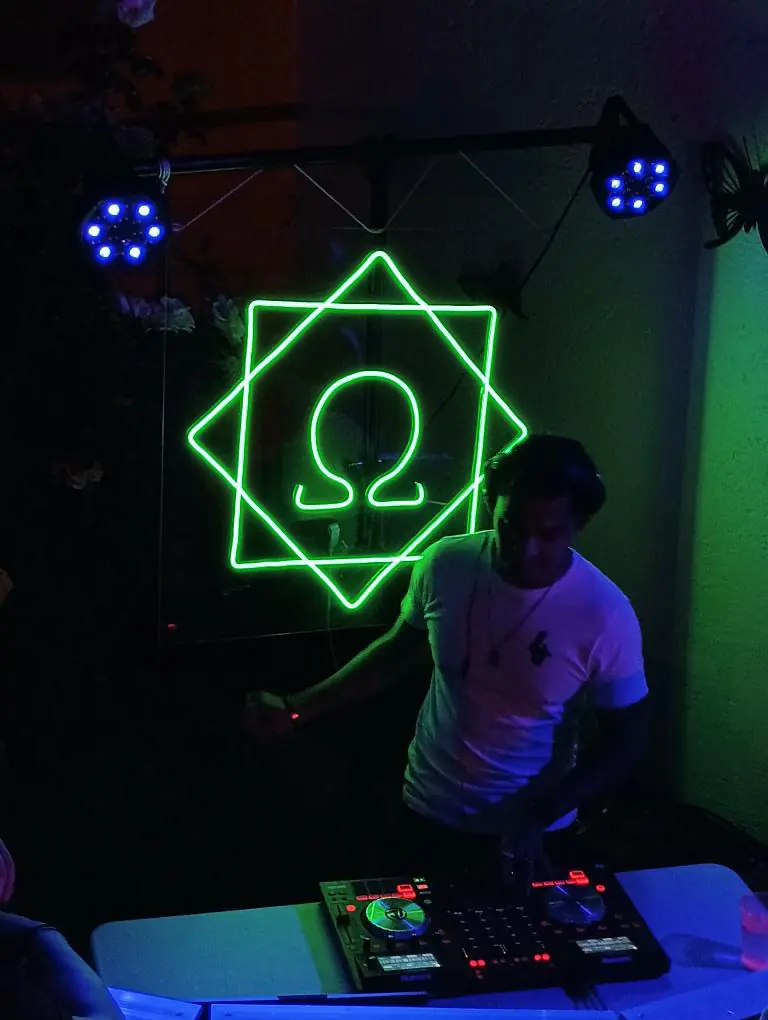
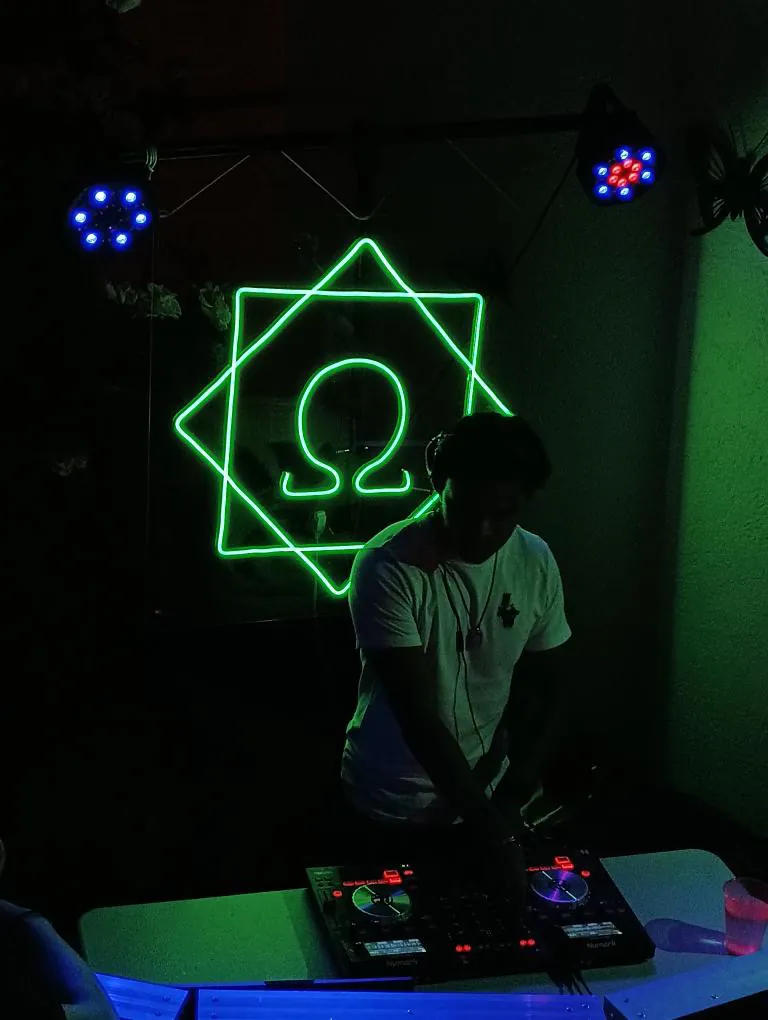
feat(galeria): reemplazar las 38 fotos por las 16 nuevas del carrusel
Claude-Session: https://claude.ai/code/session_01MD7vvLYPbAwLpoPTHU2Pwk

diff --git a/src/data/gallery.ts b/src/data/gallery.ts
@@ -7,42 +7,20 @@ export interface GalleryPhoto {
 
 // Fotos empaquetadas en el repo (public/images/gallery); no dependen de ningún servicio externo.
 export const GALLERY: GalleryPhoto[] = [
-  { src: "/images/gallery/gallery-01.webp", w: 1500, h: 1000, alt: "Greek con lentes frente al letrero de neón Ω" },
-  { src: "/images/gallery/gallery-02.webp", w: 768, h: 1020, alt: "Greek en cabina frente al letrero de neón Ω" },
-  { src: "/images/gallery/gallery-03.webp", w: 1200, h: 1500, alt: "Greek sonriendo con audífonos al aire libre" },
-  { src: "/images/gallery/gallery-04.webp", w: 1200, h: 1500, alt: "Retrato de Greek con audífonos ante el letrero de neón" },
-  { src: "/images/gallery/gallery-05.webp", w: 843, h: 562, alt: "Greek con invitados brindando en una fiesta nocturna" },
-  { src: "/images/gallery/gallery-06.webp", w: 1500, h: 1125, alt: "Greek tras la cabina con el letrero Ω iluminado" },
-  { src: "/images/gallery/gallery-07.webp", w: 1200, h: 1500, alt: "Greek sonriendo con lentes oscuros y audífonos" },
-  { src: "/images/gallery/gallery-08.webp", w: 1080, h: 1350, alt: "Greek con luz roja junto a un controlador" },
-  { src: "/images/gallery/gallery-09.webp", w: 1080, h: 1080, alt: "Greek con luz morada sobre el mixer" },
-  { src: "/images/gallery/gallery-10.webp", w: 1125, h: 1500, alt: "Greek mezclando en una mesa con luces de colores durante una fiesta" },
-  { src: "/images/gallery/gallery-11.webp", w: 1200, h: 1200, alt: "Greek en blanco y negro con las manos sobre el controlador" },
-  { src: "/images/gallery/gallery-12.webp", w: 843, h: 562, alt: "Greek con un brazo en alto en una terraza iluminada" },
-  { src: "/images/gallery/gallery-13.webp", w: 1500, h: 1200, alt: "Greek mezclando en un parque con equipo Pioneer" },
-  { src: "/images/gallery/gallery-14.webp", w: 1200, h: 1500, alt: "Cabina vista desde arriba con la pista al fondo" },
-  { src: "/images/gallery/gallery-15.webp", w: 1500, h: 1000, alt: "Greek con los brazos abiertos al atardecer junto al letrero Ω" },
-  { src: "/images/gallery/gallery-16.webp", w: 1500, h: 1000, alt: "Greek en una terraza junto al letrero de neón Ω" },
-  { src: "/images/gallery/gallery-17.webp", w: 1500, h: 1000, alt: "Greek en una terraza de noche con el letrero Ω" },
-  { src: "/images/gallery/gallery-18.webp", w: 1170, h: 1331, alt: "Cabina de Foro Escarabajo con luz morada" },
-  { src: "/images/gallery/gallery-19.webp", w: 713, h: 1500, alt: "Greek en cabina con una pantalla de colores al fondo" },
-  { src: "/images/gallery/gallery-20.webp", w: 1200, h: 1500, alt: "Greek a contraluz frente al letrero verde Ω" },
-  { src: "/images/gallery/gallery-21.webp", w: 1125, h: 1500, alt: "Greek en cabina junto a un letrero de neón rojo" },
-  { src: "/images/gallery/gallery-22.webp", w: 749, h: 1500, alt: "Persona con el brazo en alto en una pista con luces verdes" },
-  { src: "/images/gallery/gallery-23.webp", w: 1375, h: 753, alt: "Greek y un invitado sonriendo en la cabina" },
-  { src: "/images/gallery/gallery-24.webp", w: 1125, h: 1500, alt: "Greek de perfil junto a un letrero de neón azul" },
-  { src: "/images/gallery/gallery-25.webp", w: 1600, h: 1067, alt: "DJ en cabina bajo luz roja frente al letrero de Cincodoce" },
-  { src: "/images/gallery/gallery-26.webp", w: 1067, h: 1600, alt: "DJ mezclando de perfil con audífonos junto al neón de Cincodoce" },
-  { src: "/images/gallery/gallery-27.webp", w: 1200, h: 1600, alt: "Manos sobre un controlador con aros de luz azul en cabina" },
-  { src: "/images/gallery/gallery-28.webp", w: 1200, h: 1600, alt: "DJ con lentes y camisa blanca sonriendo en una terraza con luces cálidas" },
-  { src: "/images/gallery/gallery-29.webp", w: 1200, h: 1600, alt: "DJ con el brazo en alto frente a una pared de luces verdes" },
-  { src: "/images/gallery/gallery-30.webp", w: 1200, h: 1600, alt: "DJ en cabina de cristal de una terraza con luces cálidas" },
-  { src: "/images/gallery/gallery-31.webp", w: 1200, h: 1600, alt: "DJ con playera blanca mezclando en un club con luz morada" },
-  { src: "/images/gallery/gallery-32.webp", w: 1200, h: 1600, alt: "DJ de perfil sobre el mixer y los platos bajo luz azul" },
-  { src: "/images/gallery/gallery-33.webp", w: 1200, h: 1600, alt: "DJ de espaldas frente a una barra iluminada en magenta" },
-  { src: "/images/gallery/gallery-34.webp", w: 1200, h: 1600, alt: "DJ con lentes oscuros y camisa blanca mezclando en una terraza de día" },
-  { src: "/images/gallery/gallery-35.webp", w: 1600, h: 1200, alt: "Pista llena vista desde arriba con luna decorativa y luz rosa" },
-  { src: "/images/gallery/gallery-36.webp", w: 1200, h: 1600, alt: "DJ con playera verde en cabina de pared de roca" },
-  { src: "/images/gallery/gallery-37.webp", w: 1367, h: 750, alt: "Dos personas sonriendo en cabina con luz morada" },
-  { src: "/images/gallery/gallery-38.webp", w: 1600, h: 1200, alt: "DJ de espaldas frente a una pista con decoración neón" },
+  { src: "/images/gallery/gallery-01.webp", w: 1500, h: 1500, alt: "Vista desde arriba de la cabina con controlador Pioneer y gente bailando al fondo" },
+  { src: "/images/gallery/gallery-02.webp", w: 768, h: 1020, alt: "Greek en cabina frente al letrero de neón Ω verde, con parleds a los lados" },
+  { src: "/images/gallery/gallery-03.webp", w: 843, h: 562, alt: "Greek con un brazo en alto en una terraza con luces cálidas" },
+  { src: "/images/gallery/gallery-04.webp", w: 1500, h: 1000, alt: "Greek de espaldas en la cabina, con barra iluminada en verde y público al fondo" },
+  { src: "/images/gallery/gallery-05.webp", w: 1500, h: 1000, alt: "Greek sonriendo con lentes de luz verde junto al letrero Ω" },
+  { src: "/images/gallery/gallery-06.webp", w: 1500, h: 1000, alt: "Detalle del letrero Ω en verde con Greek desenfocado al fondo" },
+  { src: "/images/gallery/gallery-07.webp", w: 1500, h: 1000, alt: "Greek mezclando en una terraza de día con plantas y edificio al fondo" },
+  { src: "/images/gallery/gallery-08.webp", w: 844, h: 1500, alt: "Letrero Ω en azul con haces de luz roja y azul sobre la cabina" },
+  { src: "/images/gallery/gallery-09.webp", w: 1500, h: 1000, alt: "Greek sonriendo mientras mezcla en una terraza de día" },
+  { src: "/images/gallery/gallery-10.webp", w: 1072, h: 1500, alt: "Greek con lentes y camisa de futbol bajo una bola disco" },
+  { src: "/images/gallery/gallery-11.webp", w: 1125, h: 1500, alt: "Greek con audífonos al atardecer sobre un mirador" },
+  { src: "/images/gallery/gallery-12.webp", w: 844, h: 1500, alt: "Greek mezclando al anochecer en un mirador, con un vaso rojo sobre la mesa" },
+  { src: "/images/gallery/gallery-13.webp", w: 1125, h: 1500, alt: "Greek de espaldas con jersey 'Santi 06' frente a la pista, con luz morada" },
+  { src: "/images/gallery/gallery-14.webp", w: 1125, h: 1500, alt: "Greek en cabina frente al letrero Ω bajo luz verde" },
+  { src: "/images/gallery/gallery-15.webp", w: 1125, h: 1500, alt: "Greek con el brazo en alto bajo una bola disco con luz roja" },
+  { src: "/images/gallery/gallery-16.webp", w: 1125, h: 1500, alt: "Greek mezclando con audífonos bajo una bola disco y luz roja" },
 ];
